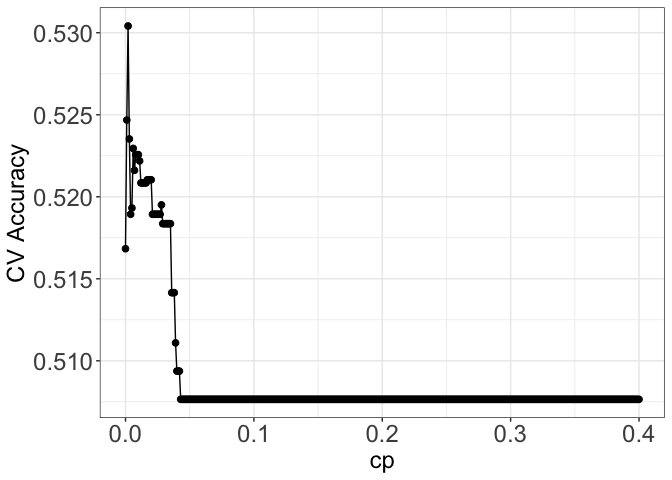
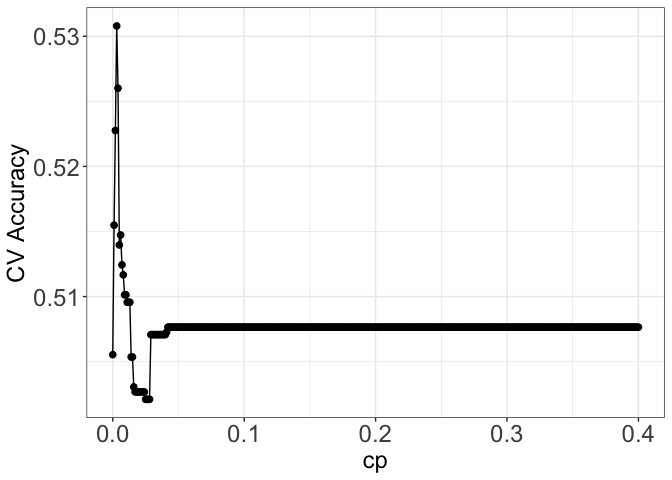
summary added

diff --git a/StackOverflow_AutoDetect.md b/StackOverflow_AutoDetect.md
@@ -252,7 +252,8 @@ Analysis and Model selection <br/><br/>
     ##    0    1 
     ## 1137 1103
 
-    paste("Baseline Model Accuracy: ", confusion_m[[1]]/ sum(confusion_m))  
+    base_acc = confusion_m[[1]]/ sum(confusion_m)
+    paste("Baseline Model Accuracy: ", base_acc)  
 
     ## [1] "Baseline Model Accuracy:  0.507589285714286"
 
@@ -268,20 +269,24 @@ performs best among all, achieving accuracy, TPR, FPR as followed
 
     ##    PredictRF
     ##       0   1
-    ##   0 638 499
-    ##   1 525 578
+    ##   0 640 497
+    ##   1 512 591
 
-    paste("Random Forest Accuracy: ", (confusion_m[1] + confusion_m[4])/sum(confusion_m)) 
+    rf_acc = (confusion_m[1] + confusion_m[4])/sum(confusion_m)
+    rf_TPR = confusion_m[4]/(confusion_m[4] + confusion_m[3])
+    rf_FPR = confusion_m[2]/(confusion_m[2] + confusion_m[1])
 
-    ## [1] "Random Forest Accuracy:  0.542857142857143"
+    paste("Random Forest Accuracy: ", rf_acc) 
 
-    paste("Random Forest TPR: ", confusion_m[4]/(confusion_m[4] + confusion_m[3]))
+    ## [1] "Random Forest Accuracy:  0.549553571428571"
 
-    ## [1] "Random Forest TPR:  0.536675951717734"
+    paste("Random Forest TPR: ", rf_TPR)
 
-    paste("Random Forest FPR: ", confusion_m[2]/(confusion_m[2] + confusion_m[1]))
+    ## [1] "Random Forest TPR:  0.543198529411765"
 
-    ## [1] "Random Forest FPR:  0.451418744625967"
+    paste("Random Forest FPR: ", rf_FPR)
+
+    ## [1] "Random Forest FPR:  0.444444444444444"
 
 #### 3c) Logistic regression
 
@@ -292,20 +297,24 @@ performs best among all, achieving accuracy, TPR, FPR as followed
 
     ##    
     ##     FALSE TRUE
-    ##   0   707  430
-    ##   1   557  546
+    ##   0   687  450
+    ##   1   539  564
 
-    paste("Logistic Regression Accuracy: ", (confusion_m[1] + confusion_m[4])/sum(confusion_m)) 
+    log_acc = (confusion_m[1] + confusion_m[4])/sum(confusion_m)
+    log_TPR = confusion_m[4]/(confusion_m[4] + confusion_m[3])
+    log_FPR = confusion_m[2]/(confusion_m[2] + confusion_m[1])
 
-    ## [1] "Logistic Regression Accuracy:  0.559375"
+    paste("Logistic Regression Accuracy: ", log_acc) 
 
-    paste("Logistic Regression TPR: ", confusion_m[4]/(confusion_m[4] + confusion_m[3]))
+    ## [1] "Logistic Regression Accuracy:  0.558482142857143"
 
-    ## [1] "Logistic Regression TPR:  0.559426229508197"
+    paste("Logistic Regression TPR: ", log_TPR)
 
-    paste("Logistic Regression FPR: ", confusion_m[2]/(confusion_m[2] + confusion_m[1]))
+    ## [1] "Logistic Regression TPR:  0.556213017751479"
 
-    ## [1] "Logistic Regression FPR:  0.440664556962025"
+    paste("Logistic Regression FPR: ", log_FPR)
+
+    ## [1] "Logistic Regression FPR:  0.439641109298532"
 
 #### 3d) stepwise regression
 
@@ -319,16 +328,20 @@ out the code put down the result ran previously,
 
     #confusion_m <- table(stackTest$useful, PredStepLog > 0.5)
     #confusion_m
+    stepwise_acc = (669+529)/sum(669,468,574,529)
+    stepwise_TPR = 529/(529 + 468)
+    stepwise_FPR = 574/(574 + 669)
 
-    paste("Stepwise Logistic Regression Accuracy: ", (669+529)/sum(669,468,574,529)) 
+
+    paste("Stepwise Logistic Regression Accuracy: ", stepwise_acc) 
 
     ## [1] "Stepwise Logistic Regression Accuracy:  0.534821428571429"
 
-    paste("Stepwise Logistic TPR: ", 529/(529 + 468))
+    paste("Stepwise Logistic TPR: ", stepwise_TPR)
 
     ## [1] "Stepwise Logistic TPR:  0.530591775325978"
 
-    paste("Stepwise Logistic FPR: ", 574/(574 + 669))
+    paste("Stepwise Logistic FPR: ",stepwise_FPR)
 
     ## [1] "Stepwise Logistic FPR:  0.46178600160901"
 
@@ -342,29 +355,34 @@ out the code put down the result ran previously,
 
     ##    PredLDA
     ##       0   1
-    ##   0 706 431
-    ##   1 559 544
+    ##   0 689 448
+    ##   1 540 563
 
-    paste("LDA Accuracy: ", (confusion_m[1] + confusion_m[4])/sum(confusion_m)) 
+    LDA_acc = (confusion_m[1] + confusion_m[4])/sum(confusion_m)
+    LDA_TPR = confusion_m[4]/(confusion_m[4] + confusion_m[3])
+    LDA_FPR = confusion_m[2]/(confusion_m[2] + confusion_m[1])
 
-    ## [1] "LDA Accuracy:  0.558035714285714"
+    paste("LDA Accuracy: ", LDA_acc) 
 
-    paste("LDA TPR: ", confusion_m[4]/(confusion_m[4] + confusion_m[3]))
+    ## [1] "LDA Accuracy:  0.558928571428571"
 
-    ## [1] "LDA TPR:  0.557948717948718"
+    paste("LDA TPR: ", LDA_TPR)
 
-    paste("LDA FPR: ", confusion_m[2]/(confusion_m[2] + confusion_m[1]))
+    ## [1] "LDA TPR:  0.556874381800198"
 
-    ## [1] "LDA FPR:  0.441897233201581"
+    paste("LDA FPR: ", LDA_FPR)
+
+    ## [1] "LDA FPR:  0.439381611065907"
 
 #### 3f) CART
 
     library(e1071)
-
+    set.seed(456)
     ## train cart
     stackCart = train(useful ~ . , data = stackTrain, method = "rpart", tuneGrid = data.frame(cp=seq(0,0.4,0.001)), trControl = trainControl(method = "cv", number = 5))
 
     stackCART = stackCart$finalModel
+
     prp(stackCART)
 
 ![](StackOverflow_AutoDetect_files/figure-markdown_strict/unnamed-chunk-20-1.png)
@@ -379,20 +397,34 @@ out the code put down the result ran previously,
 
     ##    PredCART
     ##       0   1
-    ##   0 557 580
-    ##   1 472 631
+    ##   0 789 348
+    ##   1 691 412
 
-    paste("CART Accuracy: ", (confusion_m[1] + confusion_m[4])/sum(confusion_m)) 
+    CART_acc = (confusion_m[1] + confusion_m[4])/sum(confusion_m)
+    CART_TPR = confusion_m[4]/(confusion_m[4] + confusion_m[3])
+    CART_FPR = confusion_m[2]/(confusion_m[2] + confusion_m[1])
 
-    ## [1] "CART Accuracy:  0.530357142857143"
+    paste("CART Accuracy: ",CART_acc) 
 
-    paste("CART TPR: ", confusion_m[4]/(confusion_m[4] + confusion_m[3]))
+    ## [1] "CART Accuracy:  0.536160714285714"
 
-    ## [1] "CART TPR:  0.521056977704377"
+    paste("CART TPR: ", CART_TPR)
 
-    paste("CART FPR: ", confusion_m[2]/(confusion_m[2] + confusion_m[1]))
+    ## [1] "CART TPR:  0.542105263157895"
 
-    ## [1] "CART FPR:  0.458697764820214"
+    paste("CART FPR: ", CART_FPR)
+
+    ## [1] "CART FPR:  0.466891891891892"
 
 4.Summary
 ---------
+
+    data.frame("Model" = c("Baseline", "Random Forest","Logistic Regression", "Stepwise Regression","LDA","CART"), "Accuracy" = c(base_acc,rf_acc,log_acc, stepwise_acc,LDA_acc,CART_acc), "TPR" = c(NA, rf_TPR, log_TPR,stepwise_TPR, LDA_TPR, CART_TPR), "FPR" = c(NA, rf_FPR, log_FPR,stepwise_FPR, LDA_FPR, CART_FPR))
+
+    ##                 Model  Accuracy       TPR       FPR
+    ## 1            Baseline 0.5075893        NA        NA
+    ## 2       Random Forest 0.5495536 0.5431985 0.4444444
+    ## 3 Logistic Regression 0.5584821 0.5562130 0.4396411
+    ## 4 Stepwise Regression 0.5348214 0.5305918 0.4617860
+    ## 5                 LDA 0.5589286 0.5568744 0.4393816
+    ## 6                CART 0.5361607 0.5421053 0.4668919
